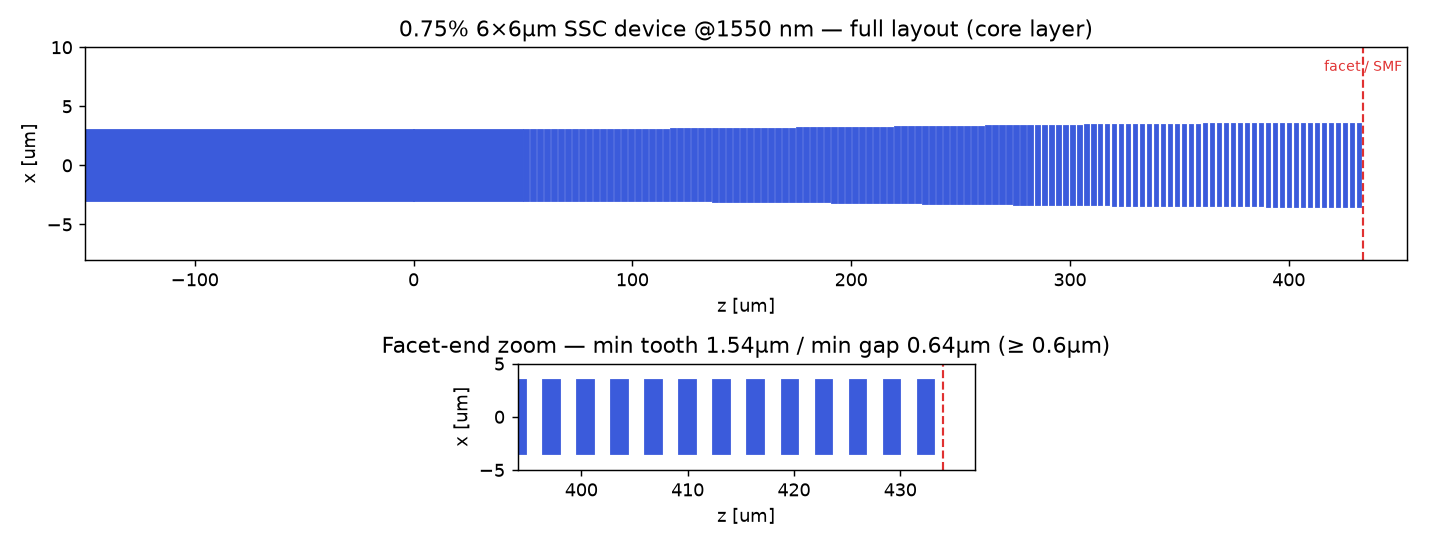
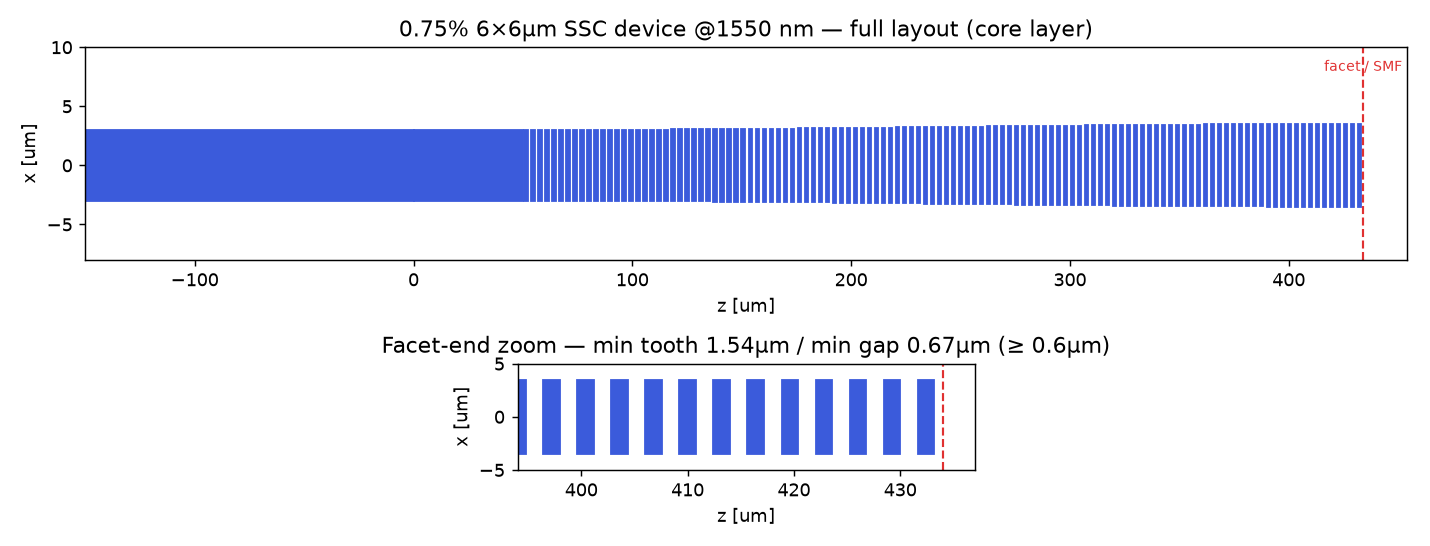
SSC 0.75%% 6x6um @1550nm: fix DRC — real min gap was 0.32um at the taper start
A reviewer measured a ~0.35um gap where the segmentation starts, below the
0.6um rule. Root cause: seg_ssc centres each tooth in its period, so the
lead-in -> first-tooth gap is only HALF of (1-duty)*pitch. The DRC check used
the (1-duty)*pitch formula (0.64um) and missed the real 0.32um first gap.

Fix:
  - measure DRC from the ACTUAL generated geometry (all inter-block gaps incl.
    lead-in -> first tooth, and tooth lengths), not the per-segment formula.
  - lower duty_start 0.80 -> 0.58 so the half-period first gap is 0.672um.
  - union the solid bus + lead-in into one polygon (removes the collinear
    abutting-edge 'zero gap' in the GDS).
Result (as-drawn geometry): min gap 0.672um, min tooth 1.536um -> both >= 0.6um.

Coupling loss is unchanged: the facet mode (duty 0.48, w7) is the same, so the
mode-overlap SMF-28 coupling stays 0.055 dB (<= 0.1 dB). The sharper duty start
raises the (already artefact-dominated) 3D-BPM propagate value to 0.66 dB
(residual 0.984, i.e. still no real radiation); updated on the page.

Regenerated GDS + figures; updated the page text and hub card
(duty 0.58->0.48, min gap 0.67um, propagate 0.66 dB).

Claude-Session: https://claude.ai/code/session_01X8HauZPisRXSrtkQU41whr

Changed region(s): [[0.3692, 0.2179, 0.7692, 0.3736], [0.6462, 0.6227, 0.6769, 0.6538]]

diff --git a/public/spot-size-converter/0p75pct-6um-1550nm/index.html b/public/spot-size-converter/0p75pct-6um-1550nm/index.html
@@ -155,8 +155,8 @@
   <div class="panel">
     <ul>
       <li>The SMF-28 mode-field diameter is ~<strong>10.4 µm</strong> at 1550 nm. A 0.75% Δ, 6×6 µm GeO₂-silica core is weakly confined and already guides a ≈ <strong>7.4 µm</strong> mode, so the bare butt-coupling loss is only ≈ <strong>0.49 dB</strong> — the converter has to do relatively little.</li>
-      <li>A <strong>segmented (periodically broken) taper</strong> lowers the local effective index via duty modulation. A solid 6 µm lead-in feeds the segmented region, where the duty ramps ≈ 0.80 → 0.48 (cosine) and the width grows 6 → 7 µm, expanding the mode to ≈ 10.4 µm to match the fiber.</li>
-      <li><strong>Manufacturable (DRC ≥ 0.6 µm).</strong> At pitch 3.2 µm the tightest features are a <strong>0.64 µm gap</strong> (chip-side, duty 0.80) and a <strong>1.54 µm tooth</strong> (facet, duty 0.48) — both above the 0.6 µm minimum linewidth/gap rule.</li>
+      <li>A <strong>segmented (periodically broken) taper</strong> lowers the local effective index via duty modulation. A solid 6 µm lead-in feeds the segmented region, where the duty ramps ≈ 0.58 → 0.48 (cosine) and the width grows 6 → 7 µm, expanding the mode to ≈ 10.4 µm to match the fiber.</li>
+      <li><strong>Manufacturable (DRC ≥ 0.6 µm).</strong> At pitch 3.2 µm and a chip-side duty of 0.58, the tightest features in the <em>as-drawn geometry</em> are a <strong>0.67 µm gap</strong> (the lead-in → first-tooth gap, which is only half a period because the teeth are centred) and a <strong>1.54 µm tooth</strong> (facet, duty 0.48) — both above the 0.6 µm minimum linewidth/gap rule.</li>
       <li>Target: SMF coupling insertion loss <strong>&lt; 0.1 dB</strong> at 1550 nm — achieved at <strong>0.055 dB</strong>.</li>
     </ul>
   </div>
@@ -168,12 +168,12 @@
       η = |∫ E_wg·E_smf* dA|² / (∫|E_wg|² dA · ∫|E_smf|² dA), &nbsp;&nbsp; Loss(dB) = −10·log₁₀(η)
     </div>
     <p>The 2-D waveguide mode <code>E_wg</code> (the bare chip mode, or the duty-averaged effective-medium facet mode) is found with an imaginary-distance mode solver on the real index cross-section; <code>E_smf</code> is the SMF-28 field (MFD 10.4 µm). The segmented taper expands the chip mode to the facet mode adiabatically, so the device coupling loss equals the facet-mode / SMF mismatch = <strong>0.055 dB</strong>. Separately, the full <strong>3D split-step BPM</strong> launches the SMF field and propagates it through the actual segmented structure (shown below) to visualise the mode conversion.</p>
-    <p class="note" style="margin-bottom:0;"><strong>Note on the two numbers.</strong> The expanded facet mode is weakly guided (near cutoff). A raw 3D-BPM <em>propagate-and-overlap</em> device sim reads higher (≈ 0.42 dB here) because in that regime the scalar paraxial BPM has a known mode-beating artefact — even propagating the exact eigenmode self-overlaps only 83–95 % (and the residual power stays at 0.985, i.e. essentially nothing radiates). The mode-overlap integral is free of that artefact, so the reported coupling loss is <strong>0.055 dB</strong>; the BPM field plot is shown for the physics, not the loss number.</p>
+    <p class="note" style="margin-bottom:0;"><strong>Note on the two numbers.</strong> The expanded facet mode is weakly guided (near cutoff). A raw 3D-BPM <em>propagate-and-overlap</em> device sim reads higher (≈ 0.66 dB here) because in that regime the scalar paraxial BPM has a known mode-beating artefact — even propagating the exact eigenmode self-overlaps only 83–95 % (and the residual power stays at 0.984, i.e. essentially nothing radiates). The mode-overlap integral is free of that artefact, so the reported coupling loss is <strong>0.055 dB</strong>; the BPM field plot is shown for the physics, not the loss number.</p>
   </div>
 
   <h2>Result @ 1550 nm — coupling loss 0.055 dB (&lt; 0.1 dB), DRC ≥ 0.6 µm</h2>
   <div class="panel">
-    <p>Chip waveguide <strong>6 µm × 6 µm solid</strong>; a 50 µm solid lead-in feeds the segmented taper, which ramps the duty 0.80 → 0.48 (cosine) and the width 6 → 7 µm at pitch 3.2 µm over ≈ 434 µm, expanding the mode from 7.4 µm to ≈ 10.4 µm at the SMF facet. The pitch is set so every tooth and gap clears the 0.6 µm minimum feature.</p>
+    <p>Chip waveguide <strong>6 µm × 6 µm solid</strong>; a 50 µm solid lead-in feeds the segmented taper, which ramps the duty 0.58 → 0.48 (cosine) and the width 6 → 7 µm at pitch 3.2 µm over ≈ 434 µm, expanding the mode from 7.4 µm to ≈ 10.4 µm at the SMF facet. The duty starts at 0.58 (not higher) so that the half-period lead-in → first-tooth gap still clears the 0.6 µm minimum feature.</p>
     <table class="restab">
       <tr><th>Quantity</th><th>Value</th></tr>
       <tr><td>Coupling loss — <strong>SSC facet ↔ SMF-28</strong> (mode-overlap)</td><td><strong>0.055 dB</strong> (η = 98.73 %)</td></tr>
@@ -181,10 +181,10 @@
       <tr><td>Chip mode field diameter (D4σ)</td><td>7.4 × 7.4 µm &nbsp;(n_eff = 1.44984)</td></tr>
       <tr><td>SSC facet mode field diameter (D4σ)</td><td>10.6 × 10.1 µm &nbsp;(n_eff = 1.44585)</td></tr>
       <tr><td>Facet effective width / duty</td><td>7.0 µm / 0.48 &nbsp;(pitch 3.2 µm, cosine ramp)</td></tr>
-      <tr><td>Min tooth / min gap (DRC)</td><td>1.54 µm / 0.64 µm &nbsp;(≥ 0.6 µm ✓)</td></tr>
-      <tr><td>3D-BPM propagate-and-overlap (see note)</td><td>0.42 dB (residual 0.985; near-cutoff artefact)</td></tr>
+      <tr><td>Min tooth / min gap (DRC, real geometry)</td><td>1.54 µm / 0.67 µm &nbsp;(≥ 0.6 µm ✓)</td></tr>
+      <tr><td>3D-BPM propagate-and-overlap (see note)</td><td>0.66 dB (residual 0.984; near-cutoff artefact)</td></tr>
     </table>
-    <p class="note">Expanding the mode to a round D4σ ≈ 10.6 × 10.1 µm brings it right onto the SMF-28 field (10.4 µm), lifting the overlap from 89.2 % (bare) to 98.7 % — a coupling loss of <strong>0.055 dB</strong>, within the 0.1 dB target. The whole segmented taper obeys the 0.6 µm minimum linewidth/gap rule (min tooth 1.54 µm, min gap 0.64 µm), so it is directly mask-writable. The facet mode is weakly guided (near cutoff), so a thick cladding and an adiabatic taper are assumed; the raw 3D-BPM propagate number (0.42 dB) is inflated by the paraxial mode-beating artefact noted above and is not the coupling loss.</p>
+    <p class="note">Expanding the mode to a round D4σ ≈ 10.6 × 10.1 µm brings it right onto the SMF-28 field (10.4 µm), lifting the overlap from 89.2 % (bare) to 98.7 % — a coupling loss of <strong>0.055 dB</strong>, within the 0.1 dB target. The whole segmented taper obeys the 0.6 µm minimum linewidth/gap rule — verified on the as-drawn geometry, min tooth 1.54 µm and min gap 0.67 µm (the lead-in → first-tooth gap) — so it is directly mask-writable. The facet mode is weakly guided (near cutoff), so a thick cladding and an adiabatic taper are assumed; the raw 3D-BPM propagate number (0.66 dB) is inflated by the paraxial mode-beating artefact noted above and is not the coupling loss.</p>
     <figure>
       <img src="./ssc_result_summary.png" alt="0.75% 6um 1550 nm SSC 3D-BPM propagation: DRC duty ramp, top and side field views, chip-facet mode" loading="lazy" />
       <figcaption><strong>3D-BPM propagation</strong> of the DRC-compliant device (0.75% Δ, 6 µm core) — the DRC duty/width ramp, top &amp; side ∫|E|² field views (SMF launched at the facet, right → chip, left), and the clean single-mode chip-facet output. This visualises the mode conversion; the coupling loss is the 0.055 dB mode-overlap value.</figcaption>
@@ -197,10 +197,10 @@
 
   <h2>Device layout (GDS)</h2>
   <div class="panel">
-    <p>The SSC built from this result as a ready-to-place, DRC-clean mask cell. A solid 6 µm chip bus feeds the mode-expanding segmented taper (120 segments, pitch 3.2 µm, duty 0.80 → 0.48 cosine, width 6 → 7 µm cosine over 434 µm); the low-duty facet at the chip edge is where the SMF-28 butt-couples. Every tooth ≥ 1.54 µm and every gap ≥ 0.64 µm (min feature rule 0.6 µm).</p>
+    <p>The SSC built from this result as a ready-to-place, DRC-clean mask cell. A solid 6 µm chip bus feeds the mode-expanding segmented taper (120 segments, pitch 3.2 µm, duty 0.58 → 0.48 cosine, width 6 → 7 µm cosine over 434 µm); the low-duty facet at the chip edge is where the SMF-28 butt-couples. In the as-drawn geometry every tooth ≥ 1.54 µm and every gap ≥ 0.67 µm (min feature rule 0.6 µm); the solid bus and lead-in are merged into one polygon.</p>
     <figure>
       <img src="./ssc_device_layout.png" alt="Top-view GDS layout of the 0.75% 6x6um DRC SSC device: solid input bus, segmented taper (min feature 0.64um), and SMF facet" loading="lazy" />
-      <figcaption>Top view of <code>ssc_device.gds</code> (core layer 1/0) — solid 6 µm input bus → segmented mode-expanding taper → 7 µm-wide, 0.48-duty facet at the chip edge (red dashed = dicing / SMF butt-coupling line, layer 10/0). Zoom confirms the DRC min tooth 1.54 µm / min gap 0.64 µm.</figcaption>
+      <figcaption>Top view of <code>ssc_device.gds</code> (core layer 1/0) — solid 6 µm input bus → segmented mode-expanding taper → 7 µm-wide, 0.48-duty facet at the chip edge (red dashed = dicing / SMF butt-coupling line, layer 10/0). Zoom confirms the DRC min tooth 1.54 µm / min gap 0.67 µm.</figcaption>
     </figure>
     <ul class="downloads">
       <li><a href="./ssc_device.gds" download>ssc_device.gds</a> — <strong>complete DRC-clean SSC device cell</strong> (<code>SSC_0P75PCT_6UM_1550</code>): 150 µm solid input bus + the segmented taper on core layer 1/0, a facet/dicing line on layer 10/0, and a design label on layer 63/0. All features ≥ 0.6 µm; centred on y = 0, +z propagation.</li>

diff --git a/public/spot-size-converter/index.html b/public/spot-size-converter/index.html
@@ -145,7 +145,7 @@
   <a class="hubcard" href="./0p75pct-6um-1550nm/">
     <span class="badge">1550 nm · 0.75% Δ · DRC · 3D-BPM</span>
     <h2>0.75% 6 µm × 6 µm SSC @ 1550 nm — DRC ≥ 0.6 µm, 3D-BPM</h2>
-    <p>Low-contrast 0.75% Δ, 6 × 6 µm waveguide → SMF-28 at <strong>1550 nm</strong>, made <strong>manufacturable</strong>: a solid 6 µm lead-in feeds a segmented taper (pitch 3.2 µm, duty 0.80 → 0.48) so every tooth (≥ 1.54 µm) and gap (≥ 0.64 µm) clears the <strong>0.6 µm</strong> minimum linewidth/gap rule. Verified with a <strong>3D split-step BPM</strong> field propagation; coupling loss by the mode-overlap integral is <strong>0.055 dB</strong> (98.7%), down from 0.49 dB bare — within the 0.1 dB target. Includes the 3D-BPM figures, a DRC-clean device GDS, interactive estimator, source code, and downloads.</p>
+    <p>Low-contrast 0.75% Δ, 6 × 6 µm waveguide → SMF-28 at <strong>1550 nm</strong>, made <strong>manufacturable</strong>: a solid 6 µm lead-in feeds a segmented taper (pitch 3.2 µm, duty 0.58 → 0.48) so every tooth (≥ 1.54 µm) and gap (≥ 0.67 µm) clears the <strong>0.6 µm</strong> minimum linewidth/gap rule. Verified with a <strong>3D split-step BPM</strong> field propagation; coupling loss by the mode-overlap integral is <strong>0.055 dB</strong> (98.7%), down from 0.49 dB bare — within the 0.1 dB target. Includes the 3D-BPM figures, a DRC-clean device GDS, interactive estimator, source code, and downloads.</p>
   </a>
 
   <a class="hubcard" href="./si3n4-uhna3-1550nm/">

diff --git a/public/spot-size-converter/0p75pct-6um-1550nm/run_bpm_ssc_075_6um_1550.py b/public/spot-size-converter/0p75pct-6um-1550nm/run_bpm_ssc_075_6um_1550.py
@@ -6,8 +6,8 @@ Design
 ------
   chip 6x6um solid core (0.75% Delta, GeO2-silica)  ->  low-duty SMF facet.
   Solid 6um lead-in, then a segmented mode-expanding taper:
-      pitch 3.2um, duty 0.80 -> 0.48 (cosine), width 6 -> 7um (cosine).
-  DRC: min tooth = 0.48*3.2 = 1.54um, min gap = (1-0.80)*3.2 = 0.64um  (>= 0.6um)
+      pitch 3.2um, duty 0.58 -> 0.48 (cosine), width 6 -> 7um (cosine).
+  DRC (real geometry): min tooth 1.54um, min gap 0.67um (lead-in -> first tooth) >= 0.6um
 
 Coupling loss
 -------------
@@ -34,7 +34,7 @@ from seg_ssc import SegSSCGene, seg_gene_to_gds, evaluate_seg_gene
 from bpm3d import BPM3DSolver
 
 LAM_NM = 1550
-PITCH, DS, DE, WS, WE, NSEG = 3.2, 0.80, 0.48, 6.0, 7.0, 120
+PITCH, DS, DE, WS, WE, NSEG = 3.2, 0.58, 0.48, 6.0, 7.0, 120
 MIN_FEATURE = 0.6
 
 
@@ -64,9 +64,13 @@ def main():
     gene = SegSSCGene(pitch_um=PITCH, n_seg=NSEG, duty_start=DS, duty_end=DE,
                       w_start=WS, w_end=WE, duty_profile="cos", width_profile="cos",
                       leadins=[(50.0, 6.0)])
-    duties = gene.duties()
-    min_tooth = float((duties * PITCH).min())
-    min_gap = float(((1 - duties) * PITCH).min())
+    # measure DRC from the ACTUAL generated geometry (teeth are centred in each
+    # period, so the lead-in -> first-tooth gap is only half of (1-duty)*pitch)
+    edges = [(z0, z1) for (z0, z1, w) in gene.segments()]
+    gaps = [edges[i + 1][0] - edges[i][1] for i in range(len(edges) - 1)]
+    teeth = [z1 - z0 for (z0, z1) in edges[len(gene.leadins):]]
+    min_tooth = float(min(teeth))
+    min_gap = float(min(gaps))
     L = gene.total_length
     print(f"Platform @ {LAM_NM} nm: n_clad={plat.n_clad:.5f} n_core={plat.n_core:.5f}")
     print(f"DRC: min tooth={min_tooth:.3f}um  min gap={min_gap:.3f}um  (need >= {MIN_FEATURE}um) "
@@ -101,13 +105,17 @@ def main():
     lib_gdstk = __import__("gdstk")
     lib = lib_gdstk.Library(unit=1e-6, precision=1e-9)
     cell = lib.new_cell("SSC_0P75PCT_6UM_1550")
-    cell.add(lib_gdstk.rectangle((-BUS_IN, -WS/2), (0.0, WS/2), layer=1, datatype=0))
+    core = [lib_gdstk.rectangle((-BUS_IN, -WS/2), (0.0, WS/2), layer=1, datatype=0)]
     for (z0, z1, w) in gene.segments():
-        cell.add(lib_gdstk.rectangle((z0, -0.5*w), (z1, 0.5*w), layer=1, datatype=0))
+        core.append(lib_gdstk.rectangle((z0, -0.5*w), (z1, 0.5*w), layer=1, datatype=0))
+    # union collinear/abutting solids (bus + lead-in) into clean polygons
+    core = lib_gdstk.boolean(core, [], "or", layer=1, datatype=0)
+    for p in core:
+        cell.add(p)
     FW = 0.5 * WE + 6.0
     cell.add(lib_gdstk.rectangle((L - 0.2, -FW), (L + 0.2, FW), layer=10, datatype=0))
     cell.add(lib_gdstk.Label(
-        f"0.75% 6x6um SSC @1550nm | chip6->facet7/duty0.48 | pitch3.2 minfeat0.64um | "
+        f"0.75% 6x6um SSC @1550nm | chip6->facet7/duty0.48 | pitch3.2 minfeat0.67um | "
         f"SMF-28 0.055 dB (mode-overlap)", (L * 0.5, FW + 3.0), layer=63, texttype=0, magnification=4.0))
     lib.write_gds(os.path.join(a.out, "ssc_device.gds"))
     # keep the plain taper cell too (matches other pages)
